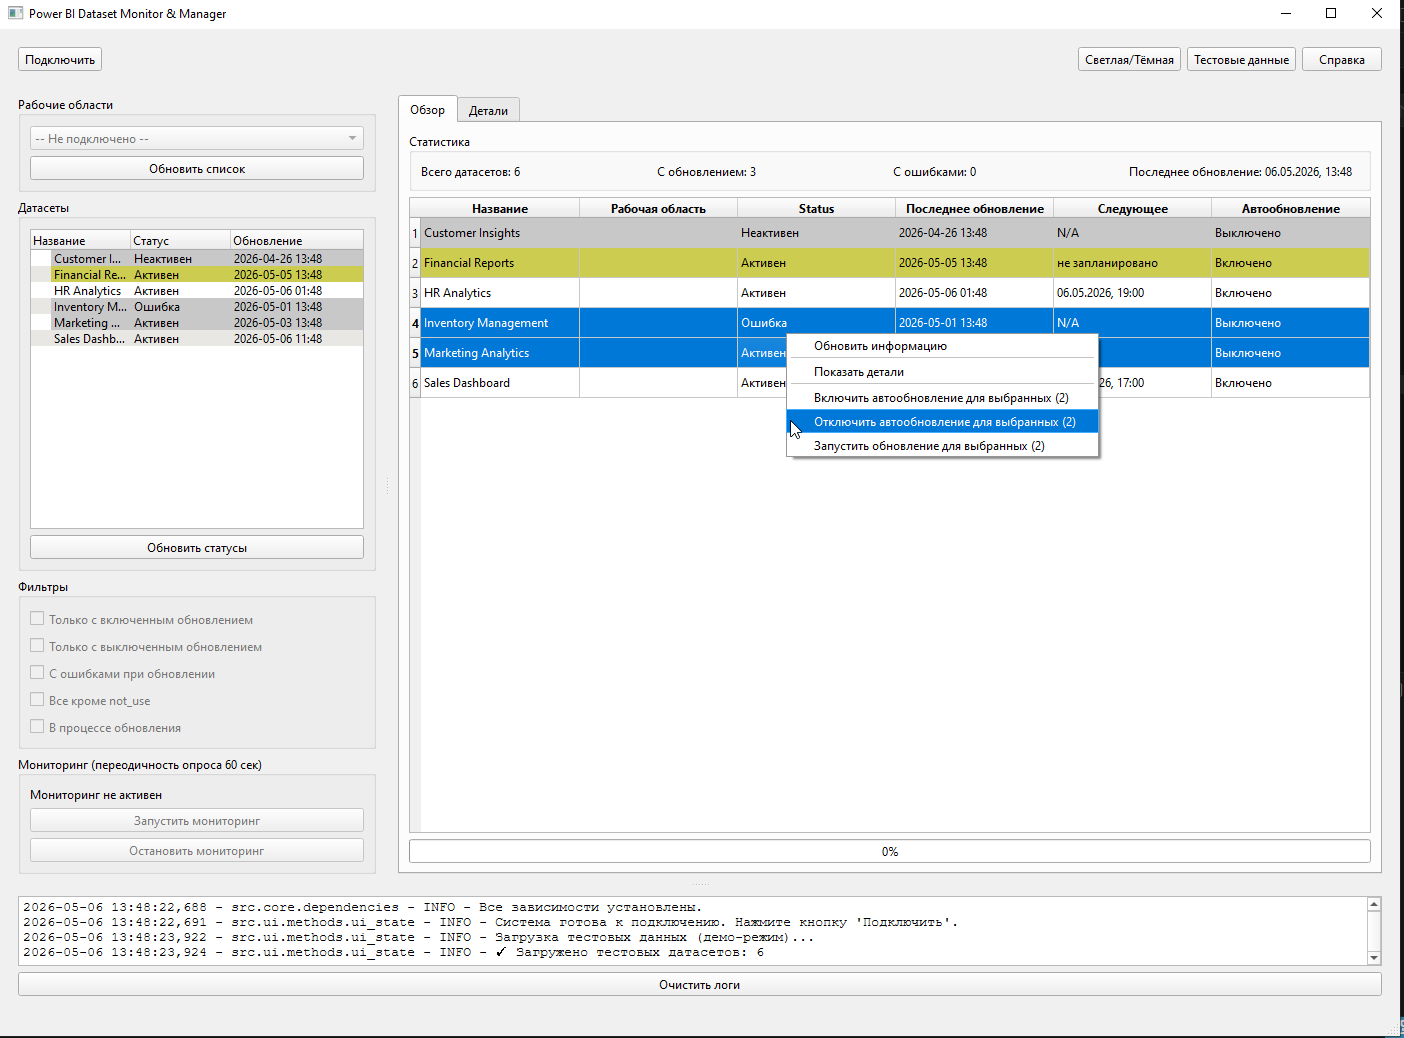
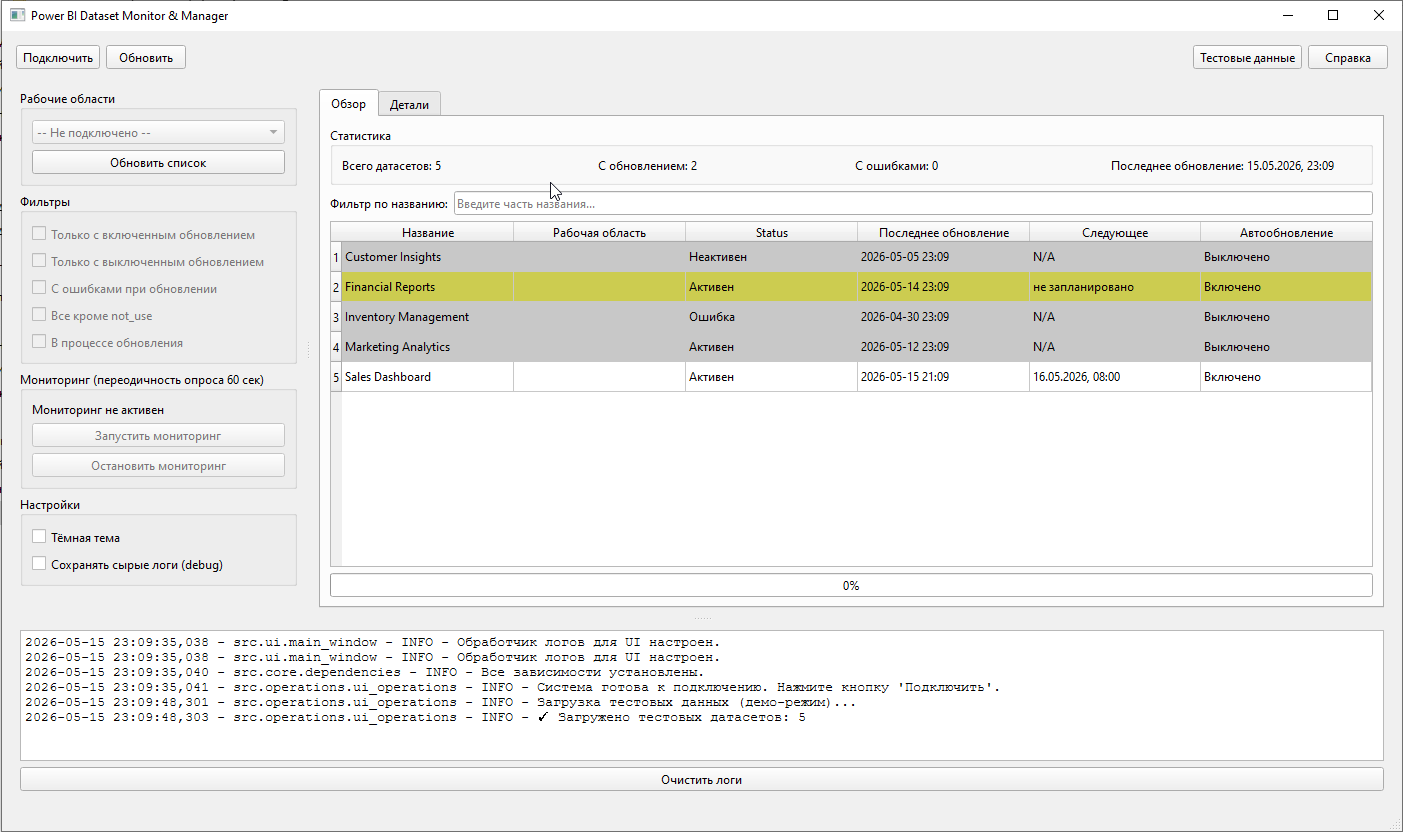
add screen

Changed region(s): [[0.0, 0.0, 1.0, 1.0], [0.5823, 0.6875, 0.613, 0.7188]]

diff --git a/README.md b/README.md
@@ -2,7 +2,10 @@
 
 Приложение для мониторинга и управления датасетами Power BI через графический интерфейс на PyQt6.
 markdown
-![Скриншот](screenshot/screen.png)
+![Скриншот](screenshot/screen2.png)
+![Скриншот](screenshot/screen2.png)
+![Скриншот](screenshot/screen3.png)
+![Скриншот](screenshot/screen4.png)
 ## Возможности
 
 - **Подключение к Power BI**: Аутентификация через Azure Interactive Browser или Azure CLI
